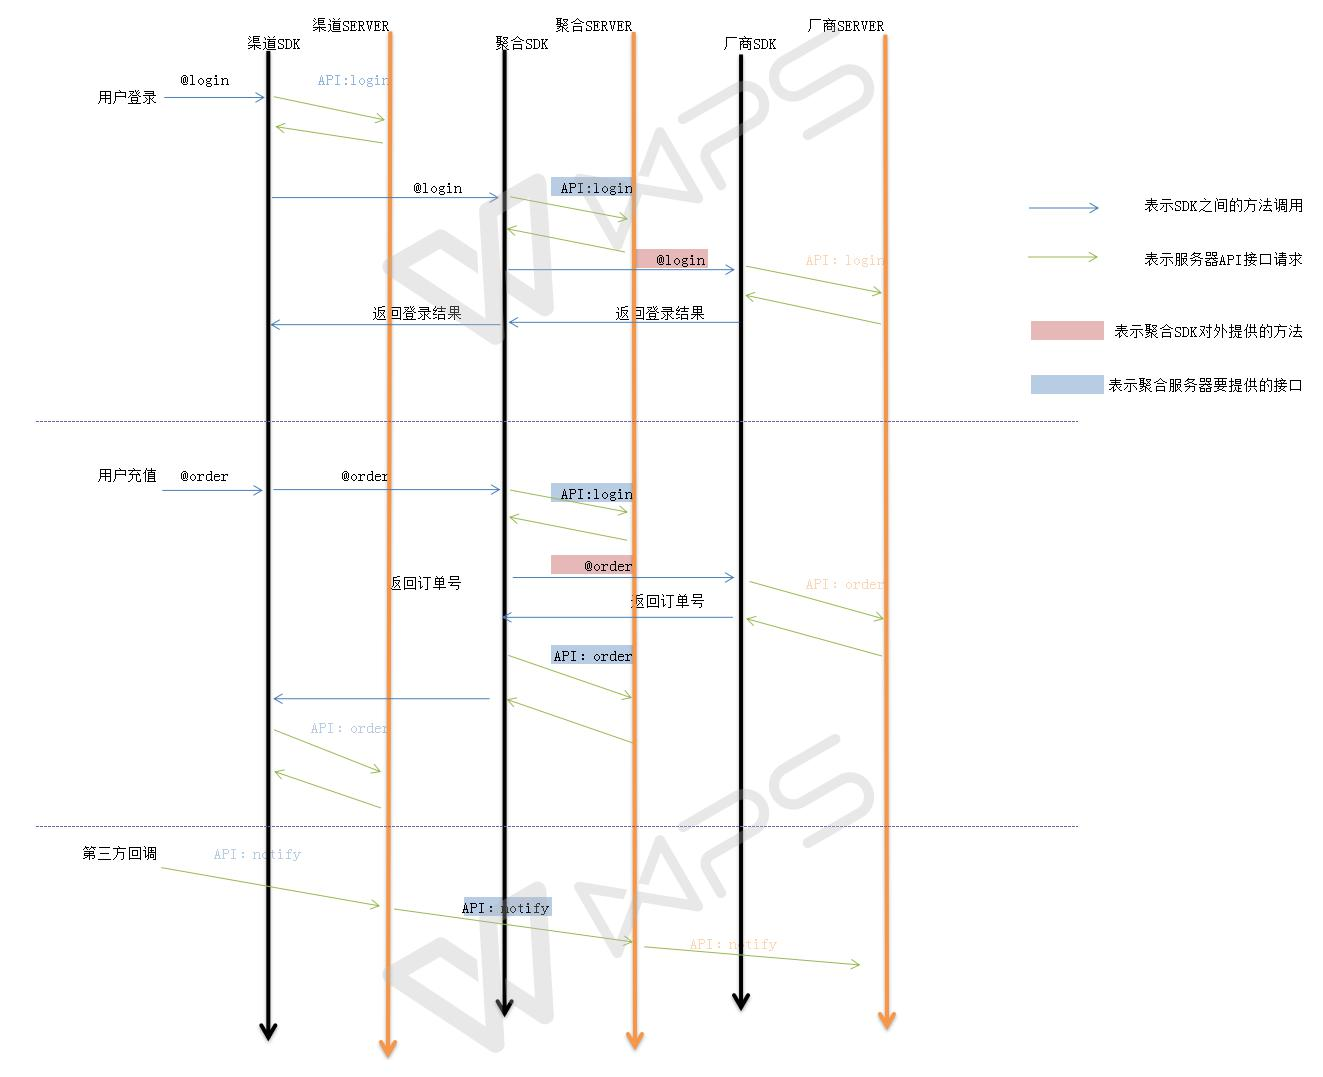
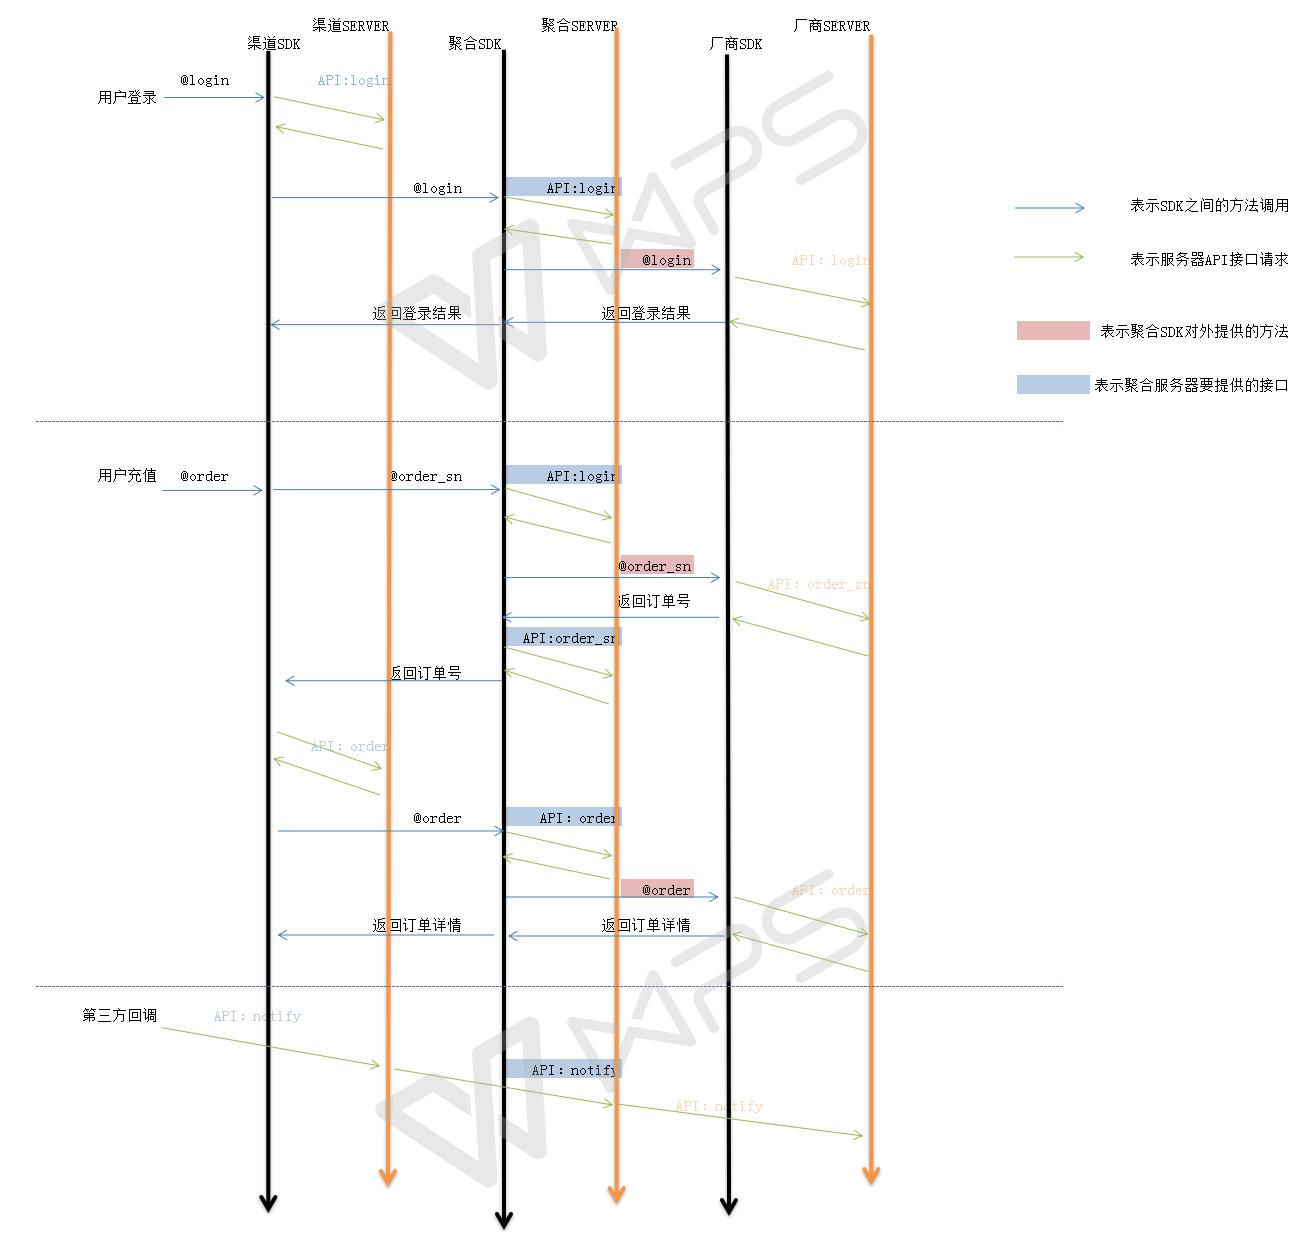
update

diff --git a/psdk/readme.md b/psdk/readme.md
@@ -10,12 +10,17 @@
 - 聚合SDK登录验证成功后，调用厂商SDK的登录方法完成登录
 
 ### 用户充值
-- 用户进行充值，调用渠道SDK的订单创建方法。
-- 渠道SDK调用聚合SDK的订单创建方法(@order)
+- 用户进行充值，调用渠道SDK的订单号创建方法。
+- 渠道SDK调用聚合SDK的订单号创建方法(@order_sn)
 - 聚合SDK请求聚合Server的[login接口](https://github.com/slpi1/public_doc/blob/master/psdk/api.md#登录接口)，验证请求的合法性
-- 聚合SDK调用厂商SDK的订单创建方法，获取厂商订单号(attach)
-- 聚合SDK请求聚合Serve的[order接口](https://github.com/slpi1/public_doc/blob/master/psdk/api.md#订单创建接口)，创建聚合平台订单
+- 聚合SDK调用厂商SDK的订单号创建方法，获取厂商订单号(attach)
+- 聚合SDK请求聚合Serve的[order_sn接口](https://github.com/slpi1/public_doc/blob/master/psdk/api.md#订单号创建接口)，创建聚合平台订单号
 - 聚合SDK返回平台订单号给渠道SDK
+- 渠道SDK根据平台订单号创建订单
+- 渠道SDK调用聚合SDL的订单创建方法(@order)
+- 聚合SDK调用聚合Server的[order接口](https://github.com/slpi1/public_doc/blob/master/psdk/api.md#订单创建接口)，创建聚合平台订单
+- 聚合SDK调用厂商订单创建方法(@order)
+- 返回订单详情
 
 ### 充值成功回调
 - 渠道Server收到第三方充值成功回调信息

diff --git a/psdk/agent-sdk.md b/psdk/agent-sdk.md
@@ -39,7 +39,7 @@ $sdk->valiPay($key);
 参数
 - key：与渠道约定的秘钥
 返回
-- true 充值验证成功
+- order_sn 平台订单号
 - false 充值验证失败
 
 ### 订单数据格式化

diff --git a/psdk/api.md b/psdk/api.md
@@ -35,8 +35,6 @@
     msg:
     data:{
         order_sn: 平台订单号
-        server：游戏区服
-        role：角色ID
     }
 }
 ```
